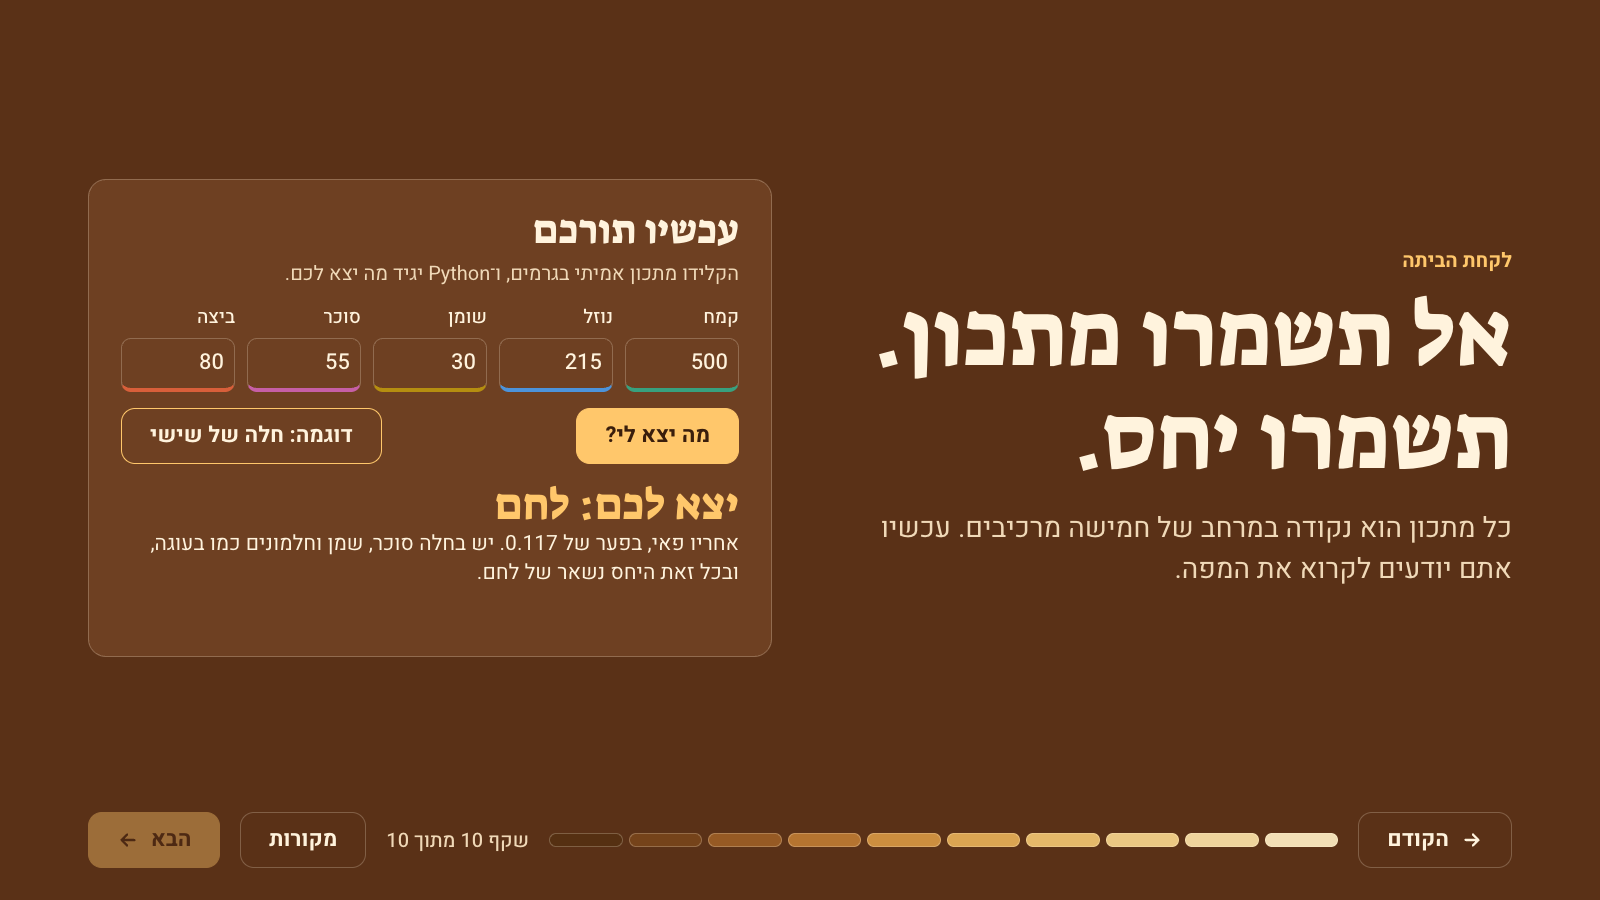
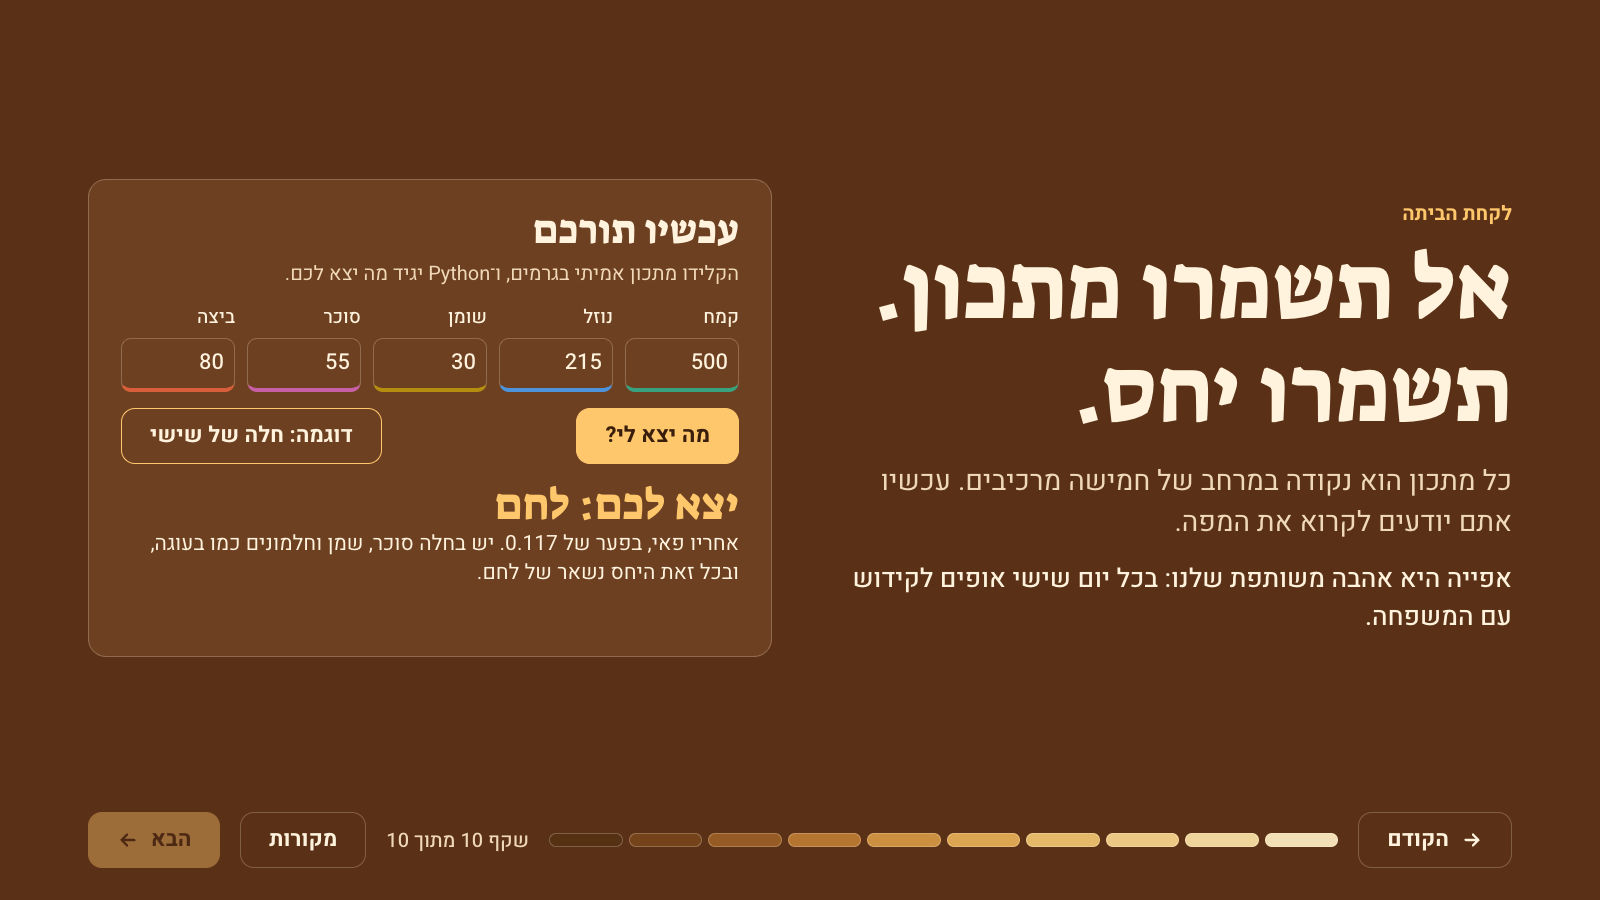
Add the team's Friday baking and credit the PRD's points
Slide 10, the README and the PRD now carry the reason this topic is
personal: the team bakes every Friday for its family's kiddush.

Split the PRD's points into those the team gave and those the model
proposed and the team accepted.

Claude-Session: https://claude.ai/code/session_01JHgGzg78Dc17CA7ah9LqMr

Changed region(s): [[0.5312, 0.28, 0.9688, 0.5911], [0.5312, 0.6222, 0.9688, 0.7156], [0.875, 0.2178, 0.9375, 0.2489]]

diff --git a/index.html b/index.html
@@ -242,6 +242,7 @@ pre.code[hidden] { display: none; }
 /* Slide 10 */
 .close { display: grid; grid-template-columns: minmax(0, 1fr) minmax(0, 1fr); gap: 56px; align-items: center; grid-row: 1 / -1; }
 .close h2 { font-size: 92px; margin-block-end: 20px; }
+.close .ours { margin-block-start: 18px; font-size: 26px; font-weight: 500; }
 #yours h3 { font-size: 40px; margin-block-end: 6px; }
 .fields { display: grid; grid-template-columns: repeat(5, minmax(0, 1fr)); gap: 12px; margin-block: 16px; }
 .fields label { display: grid; gap: 6px; font-size: 19px; font-weight: 500; }
@@ -468,6 +469,7 @@ pre.code[hidden] { display: none; }
         <p class="kicker">לקחת הביתה</p>
         <h2>אל תשמרו מתכון. תשמרו יחס.</h2>
         <p class="lede">כל מתכון הוא נקודה במרחב של חמישה מרכיבים. עכשיו אתם יודעים לקרוא את המפה.</p>
+        <p class="ours">אפייה היא אהבה משותפת שלנו: בכל יום שישי אופים לקידוש עם המשפחה.</p>
       </div>
       <form class="panel" id="yours" autocomplete="off">
         <h3>עכשיו תורכם</h3>

diff --git a/README.md b/README.md
@@ -10,6 +10,10 @@ Assignment 01, Generative AI course, Bar-Ilan University, Dr. Yoram Segal. Group
 
 Show that **bread, cake, cookies and pie are the same five ingredients in different ratios**, and test that claim instead of only stating it. The audience reads a recipe as a vector, watches Python classify it, sees the result bake in 3D, and then sees where the method fails.
 
+## Why this topic
+
+We both love to bake. We do it every Friday for our kiddush with the family, so we know this subject well enough to catch a wrong claim about it. Slide 10 ends on a Friday challah.
+
 ## What this repository does
 
 It holds the presentation and everything behind it: the Python classifier, 12 published test recipes, the automated checks, the product requirements document and the prompts used to build it.
@@ -86,7 +90,7 @@ Each row is one control to try and what it should do.
 | 3D animation | Three.js, one mesh with four morph targets, bake under 5 seconds | Slides 7, 8 |
 | Data | 12 published recipes, 3 per family, with sources | `python/sourced_recipes.py` |
 | Failure handling | Results computed in advance if Python can't load, a still image if 3D can't | Slides 7, 8 |
-| Testing | 52 browser checks in Chrome and Safari's engine, and 13 Python tests | `tests/` |
+| Testing | 53 browser checks in Chrome and Safari's engine, and 13 Python tests | `tests/` |
 | Documents | README, PRD and prompt log | Repository root and `prompts/` |
 
 The full plan, acceptance tests and decision log are in [`PRD.md`](PRD.md).
@@ -168,7 +172,7 @@ flowchart LR
 
 | Stage | The team | The model (Claude Code) |
 |---|---|---|
-| Planning | Chose the topic, accepted the PRD | Drafted the bullets at the team's request, wrote the PRD |
+| Planning | Chose the topic from their own Friday baking, set the main points, accepted the PRD | Proposed the rest of the points, wrote the PRD |
 | Building | Set the requirements: Hebrew, RTL end to end, every component aligned, Google Fonts | Wrote the code and the files |
 | Checking | Reviewed the finished deck | Wrote and ran the tests, and fixed what they found |
 | Documenting | Made the repo public, asked for this README to be checked against the assignment | Wrote the README, pushed each stage |
@@ -188,7 +192,9 @@ The real prompts are in [`prompts/`](prompts/), in order.
 | `b198d75` | Challah on slide 10, team review recorded, repo public |
 | `9cbd4f8` | New screenshots and video frames, self grade recorded. Its message wrongly says the README changed, because that write had failed |
 | `f55ed48` | README rebuilt against the assignment text |
-| Latest | Section restored on what goes beyond the requirements |
+| `779b96b` | Section restored on what goes beyond the requirements |
+| `56cce0a` | Prompt log updated |
+| Latest | The team's Friday baking added, and the PRD's points split by who gave them |
 
 ### What checking caught
 
@@ -230,7 +236,7 @@ The real prompts are in [`prompts/`](prompts/), in order.
 ```bash
 pytest tests                                  # 13 Python tests
 cd tests && npm install --ignore-scripts
-npm run check                                 # 52 browser checks in Chrome
+npm run check                                 # 53 browser checks in Chrome
 npx playwright install webkit
 BROWSER=webkit npm run check                  # the same checks in Safari's engine
 ```

diff --git a/PRD.md b/PRD.md
@@ -14,17 +14,24 @@ The audience reads a recipe as a vector, watches Python classify it, and sees th
 
 ## 2. Team brief
 
-> **Provenance:** the team supplied the topic ("baking: cakes, breads, cookies, pies") and asked the model to draft the rest. These bullets are the model's draft. The team accepted them as written and asked the model to handle this part itself.
+**Points from the team:**
 
-1. Topic: baking, covering breads, cakes, cookies and pies.
-2. Don't make a recipe collection. Make one argument: everything comes from the same five ingredients.
-3. Teach baker's percentages, because they let you compare any two recipes regardless of batch size.
-4. Python does a real job: it turns a recipe into a vector and finds its closest family with cosine similarity, the method taught in lecture 3.
-5. The 3D object responds to Python's answer, so the two aren't separate decorations.
-6. Don't use a spinning doughnut. It is the lecture's own example.
-7. Show where the method fails. Admitting it is more honest and more interesting than hiding it.
-8. Include one real recipe from our own kitchen.
-9. Deck in Hebrew with correct RTL and BiDi. Engineering documents and prompts in English, as the lecture recommends for token cost.
+1. Topic: baking, covering cakes, breads, cookies and pies.
+2. Both of us love to bake. We bake every Friday for our family's kiddush.
+3. The deck is in Hebrew.
+4. RTL from end to end, with every component aligned correctly.
+5. A good-looking Hebrew font from Google Fonts.
+6. The repository lives on the `morgannoa` GitHub account.
+
+**Points the model proposed and the team accepted:**
+
+1. Don't make a recipe collection. Make one argument: everything comes from the same five ingredients.
+2. Teach baker's percentages, because they let you compare any two recipes regardless of batch size.
+3. Python does a real job: it turns a recipe into a vector and finds its closest family with cosine similarity, the method taught in lecture 3.
+4. The 3D object responds to Python's answer, so the two aren't separate decorations.
+5. Don't use a spinning doughnut. It is the lecture's own example.
+6. Show where the method fails.
+7. Keep engineering documents and prompts in English, as the lecture recommends for token cost.
 
 ## 3. Requirements traceability
 
@@ -320,3 +327,4 @@ Real decisions only, recorded as they happen.
 | 2026-11-07 | Repo created private, then made public by the team | Auto mode blocked the model from creating a public repo, so the team switched it itself. Verified with no login: the page opens and all README images load | Team |
 | 2026-11-07 | Student names stay out of the repo | Agreed in this PRD: they go in the form only | Team |
 | 2026-11-07 | Self grade 95 | The team's choice, replacing the model's suggestion of 85 | Team |
+| 2026-11-07 | Add the Friday kiddush baking to slide 10 and the README | The team's own reason for the topic | Team |

diff --git a/prompts/02-building.md b/prompts/02-building.md
@@ -78,3 +78,11 @@ The team then ran `gh repo edit` itself to make the repo public. A check in a fr
 
 **Model response (summary):** rewrote the requirements page in Hebrew, right to left, and checked that every text block computes as RTL with English terms isolated.
 
+## Prompt 11 (2026-11-07)
+
+> `[start of this prompt omitted; no changes came from it]`
+>
+> regarding "האישיות שלכם בעבודה" , state that both of us love to bake, we do it every friday for our kiddush with the family. super personal.
+
+**Model response (summary):** added the team's Friday baking to slide 10, the README and the PRD, and split the PRD's points into those the team gave and those the model proposed and the team accepted.
+

diff --git a/prompts/README.md b/prompts/README.md
@@ -4,7 +4,7 @@ The team's real prompts to the model, in order, one file per phase.
 
 Rules for this folder:
 
-- Team prompts are verbatim. Long pasted course material is replaced by a marker saying what was omitted.
+- Team prompts are verbatim. Anything left out, such as long pasted course material, is replaced by a marker that says so.
 - Model responses are summaries, and they say so.
 - Nothing is invented or tidied up after the fact. Mistakes stay in.
 - No credentials, ID numbers or private details. Check before each commit, because this folder is public.
